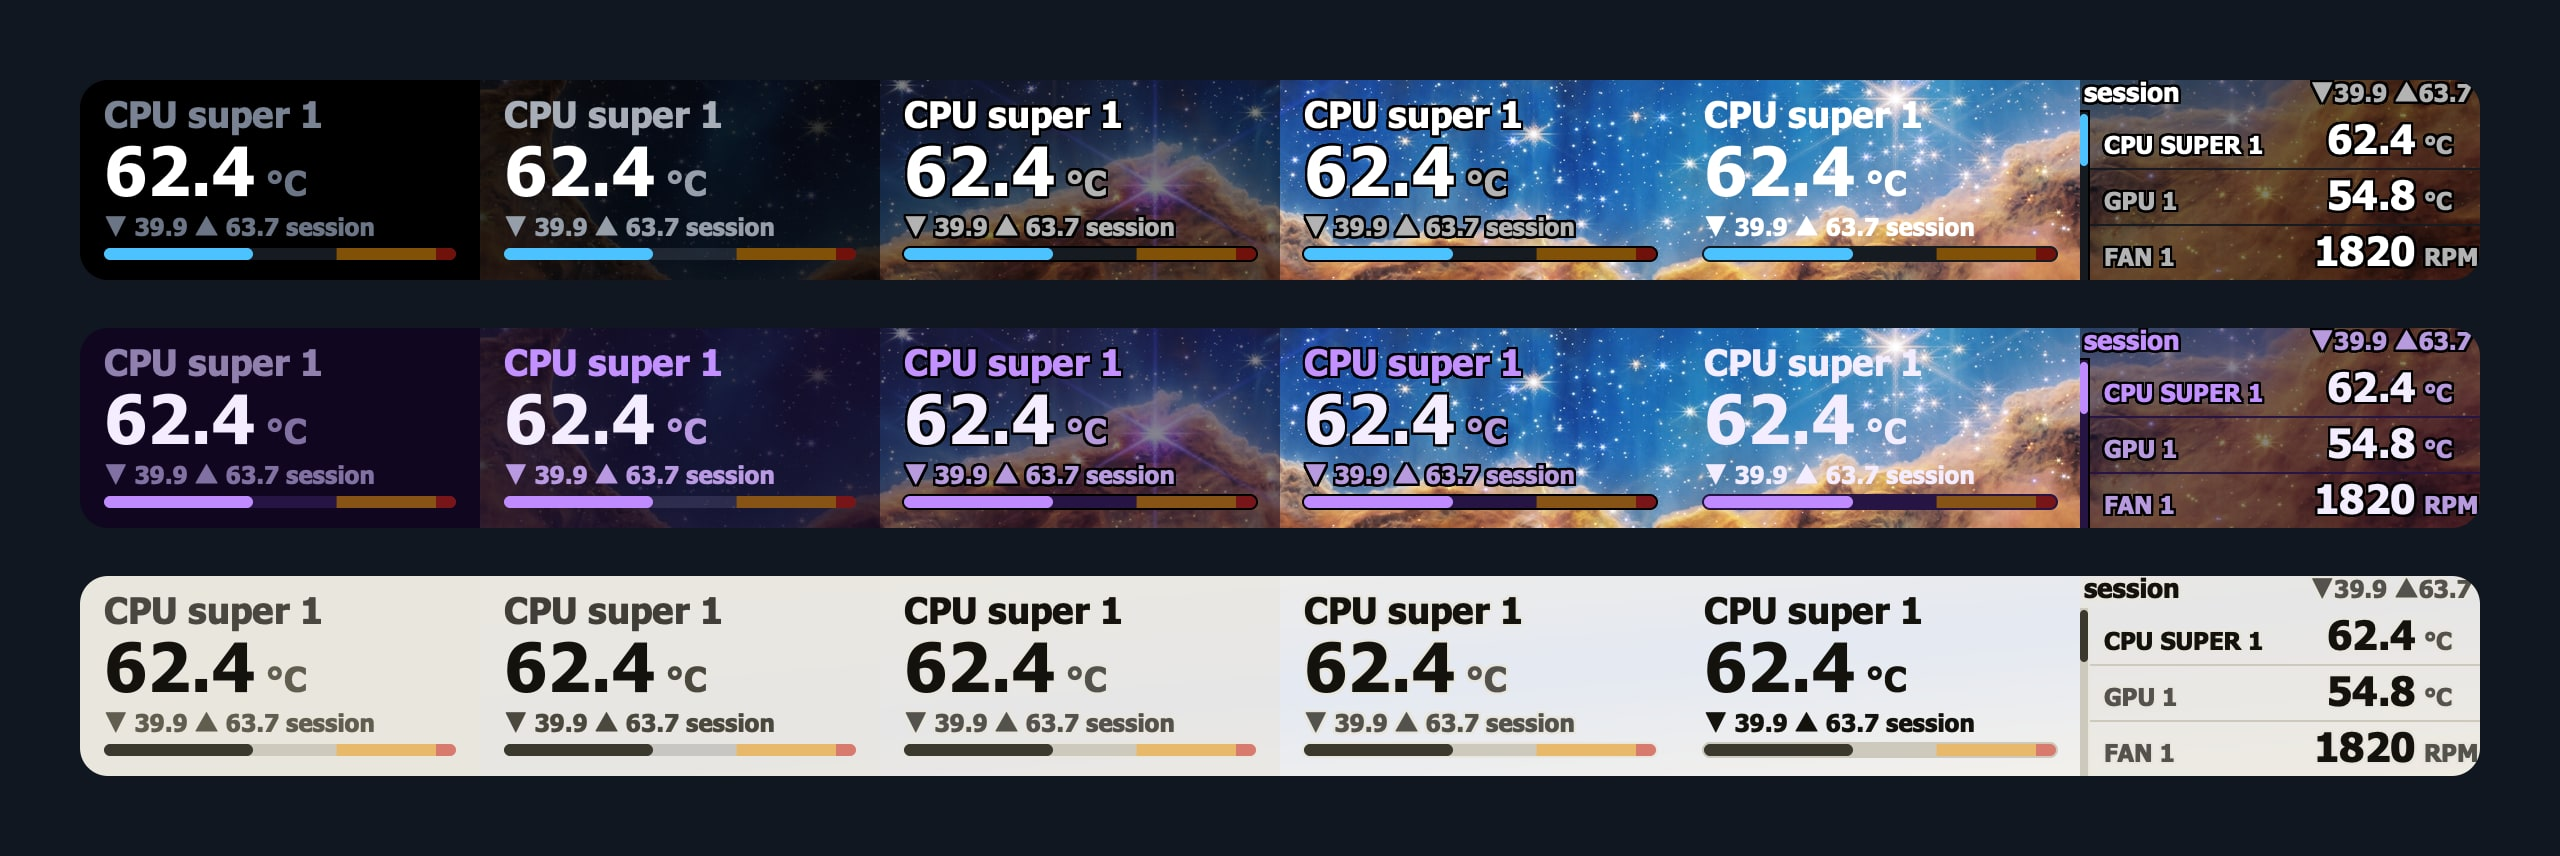
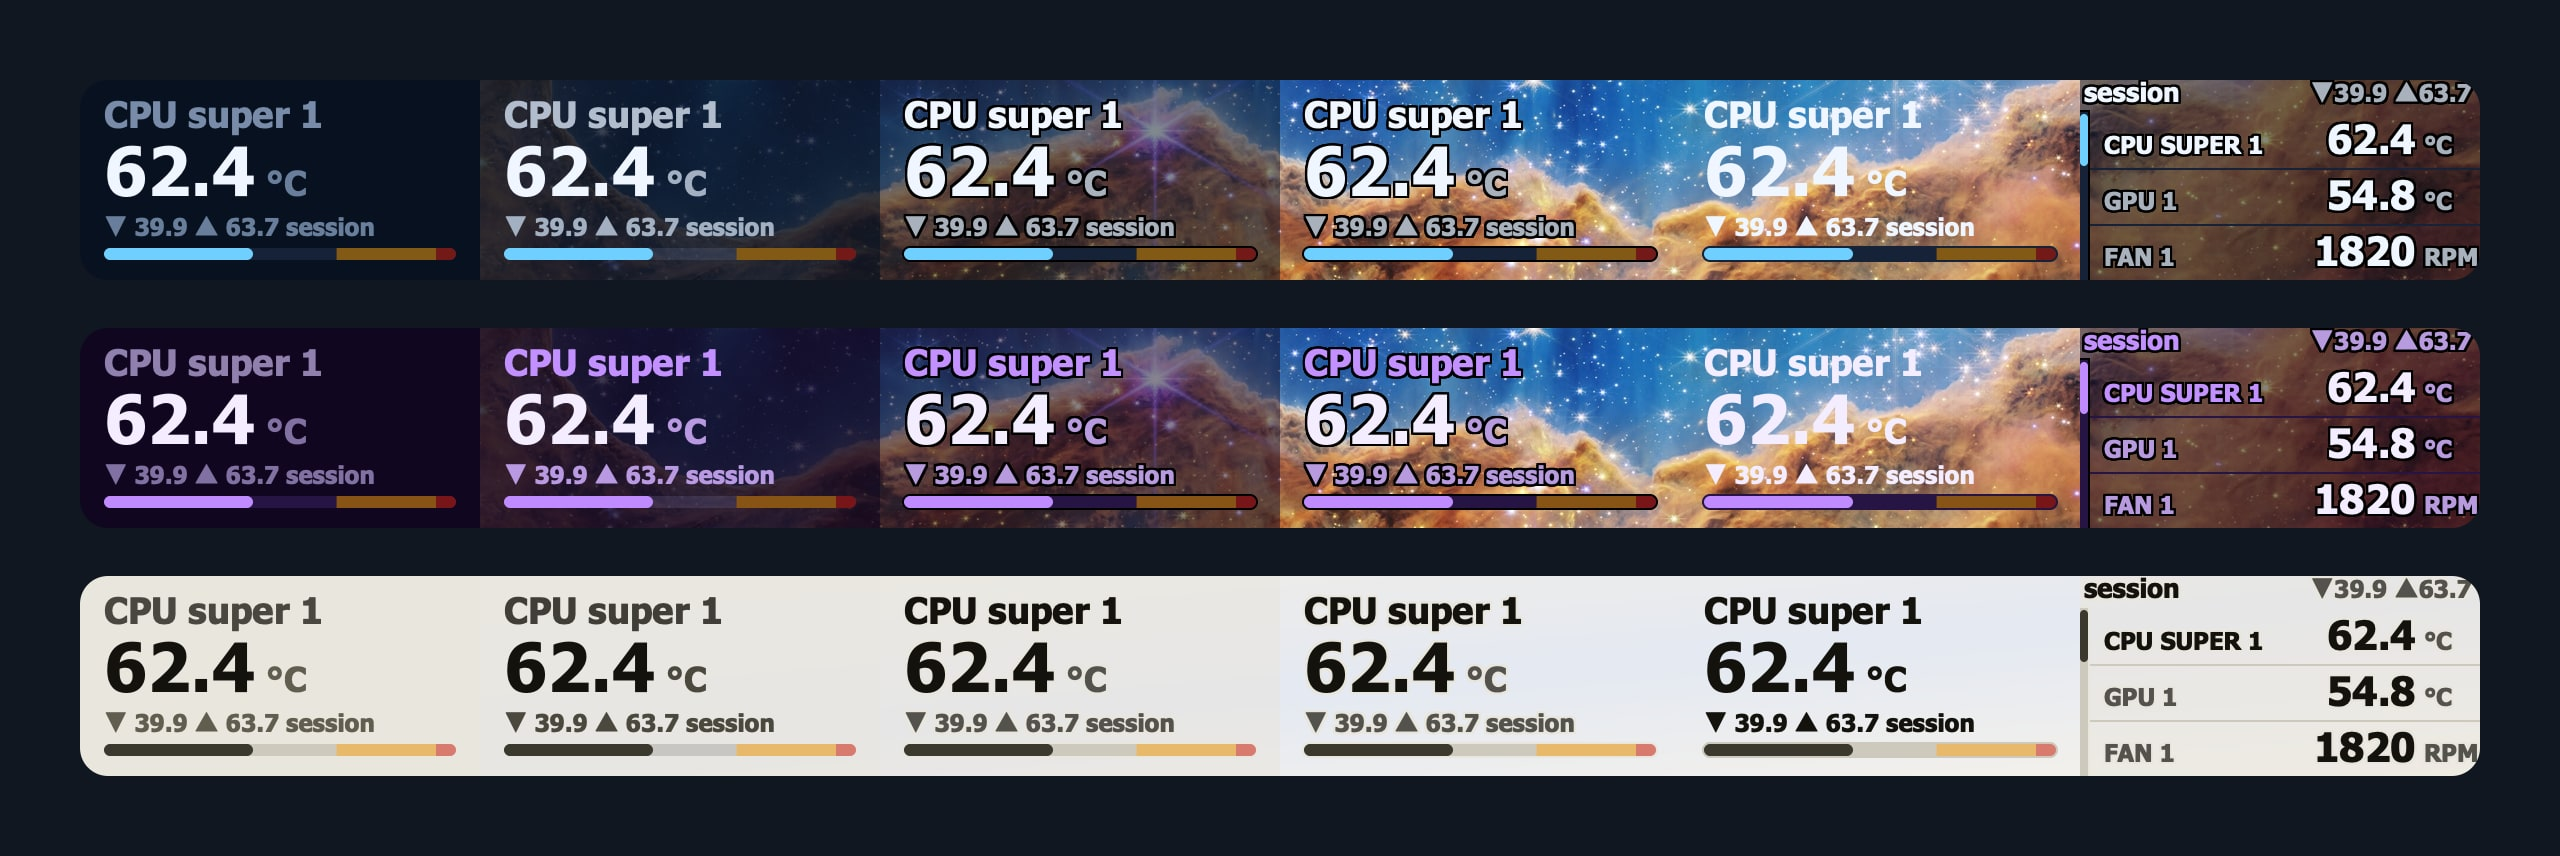
docs(dial): the strip examples use the same picture band and theme as the Windows sibling's
The Cosmic Cliffs band now starts at row 791 of the 4000 by 2317 source
(full width, 12 to 1), the band the sibling's Stream Deck + XL captures
show, and the first strip is Midnight as theirs is. Laid side by side at
the same scale, the background of each look matches that capture to
within 5 of 255 in every channel on average: Theme, Glass, Tint, Outline
and Clear.

diff --git a/scripts/lib/mac-scenes.ts b/scripts/lib/mac-scenes.ts
@@ -156,7 +156,7 @@ export function composeLookScene(theme:string,look:StripLook,view:StripView,acce
  * one-reading view, then Tint on the three-row overview. Paper sits on a light picture, as its Clear look needs.
  */
 export const stripDefinitions=[
-	{id:'void',theme:'void',accentWords:false,picture:'cosmic-cliffs'},
+	{id:'midnight',theme:'midnight',accentWords:false,picture:'cosmic-cliffs'},
 	{id:'ultraviolet-accent-words',theme:'ultraviolet',accentWords:true,picture:'cosmic-cliffs'},
 	{id:'paper',theme:'paper',accentWords:false,picture:'light'}
 ] as const;

diff --git a/docs/sensor-dial.md b/docs/sensor-dial.md
@@ -110,7 +110,7 @@ A dial on **Theme** covers the picture the Stream Deck app can show on the touch
 
 ![Three touch strips of six dial segments each, every segment showing CPU super 1 at 62.4 °C. The first two strips lie over a picture of orange dust cliffs under a blue field of stars: Theme hides the picture, Glass dims it strongly, Tint shows it at half strength with outlined words, Outline and Clear show it fully, and the sixth segment is the three-row view on Tint. The second strip uses Ultraviolet with the title in its purple accent. The third strip is Paper over a pale gradient.](assets/img/dial-backgrounds-looks.jpg)
 
-*Production-rendered sample data over a picture, not a capture from a device. From left: Theme, Glass, Tint, Outline, Clear, then Tint in the three-row view. Top: Void. Middle: Ultraviolet with Words in the accent color. Bottom: Paper over a gradient I made. Picture: the Cosmic Cliffs ([NASA, ESA, CSA, and STScI](https://esawebb.org/images/weic2205a/), [CC BY 4.0](https://creativecommons.org/licenses/by/4.0/), cropped for the strip).*
+*Production-rendered sample data over a picture, not a capture from a device. From left: Theme, Glass, Tint, Outline, Clear, then Tint in the three-row view. Top: Midnight. Middle: Ultraviolet with Words in the accent color. Bottom: Paper over a gradient I made. Picture: the Cosmic Cliffs ([NASA, ESA, CSA, and STScI](https://esawebb.org/images/weic2205a/), [CC BY 4.0](https://creativecommons.org/licenses/by/4.0/), cropped for the strip).*
 
 I drew each face through the Stream Deck app's own SVG engine (QtSvg 6.11.1 from app 7.6.1) at the strip's 200 by 100 pixels and counted what it leaves see-through on the one-reading view. Theme covers every pixel. Glass leaves no pixel fully clear and its panel sits at 80% opacity. Tint's panel sits at 50%. Outline leaves 69.8% of the segment fully clear, and Clear 76.8%.
 
